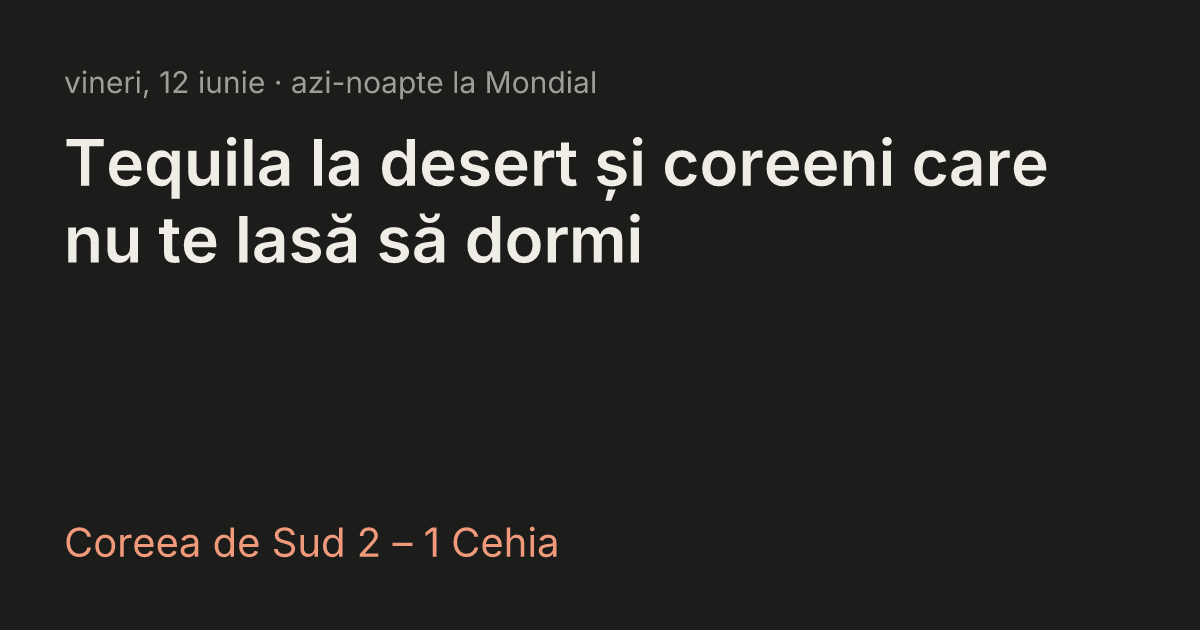
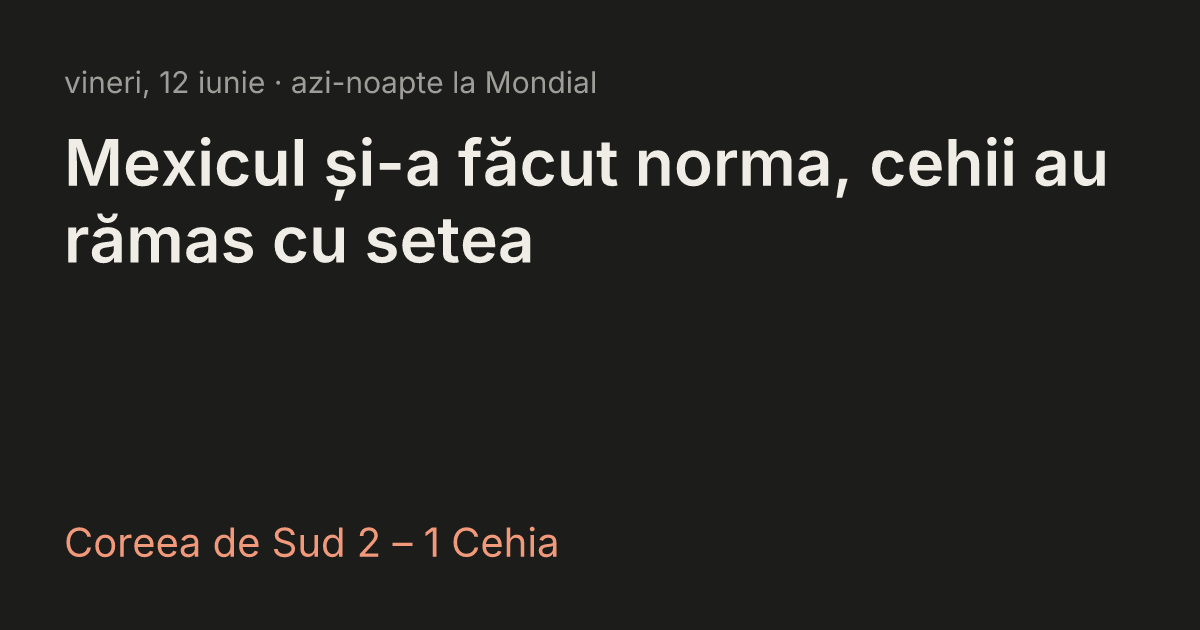
digest: 2026-06-12

Changed region(s): [[0.0308, 0.2111, 0.925, 0.4222]]

diff --git a/site/index.html b/site/index.html
@@ -5,8 +5,8 @@
   <meta name="viewport" content="width=device-width, initial-scale=1.0" />
   <title>Mondialul de dimineață</title>
   <!-- og:start -->
-  <meta property="og:title" content="Tequila la desert și coreeni care nu te lasă să dormi" />
-  <meta property="og:description" content="Mexicul a rezolvat problema cu Africa de Sud și s-a instalat confortabil în fruntea grupei A. Coreenii au trimis Cehia la culcare cu un 2-1 care le complică europenilor planurile de calificare." />
+  <meta property="og:title" content="Mexicul și-a făcut norma, cehii au rămas cu setea" />
+  <meta property="og:description" content="Mexicul a rezolvat meciul cu Africa de Sud pentru un 2-0 sec și s-a instalat la șefia grupei A. Coreenii au trimis Cehia la culcare cu un 2-1 care îi lasă pe europeni fără puncte după prima rundă." />
   <meta property="og:image" content="https://mcandea04.github.io/mondial/data/og/2026-06-12.png" />
   <meta property="og:url" content="https://mcandea04.github.io/mondial/" />
   <meta property="og:type" content="website" />
